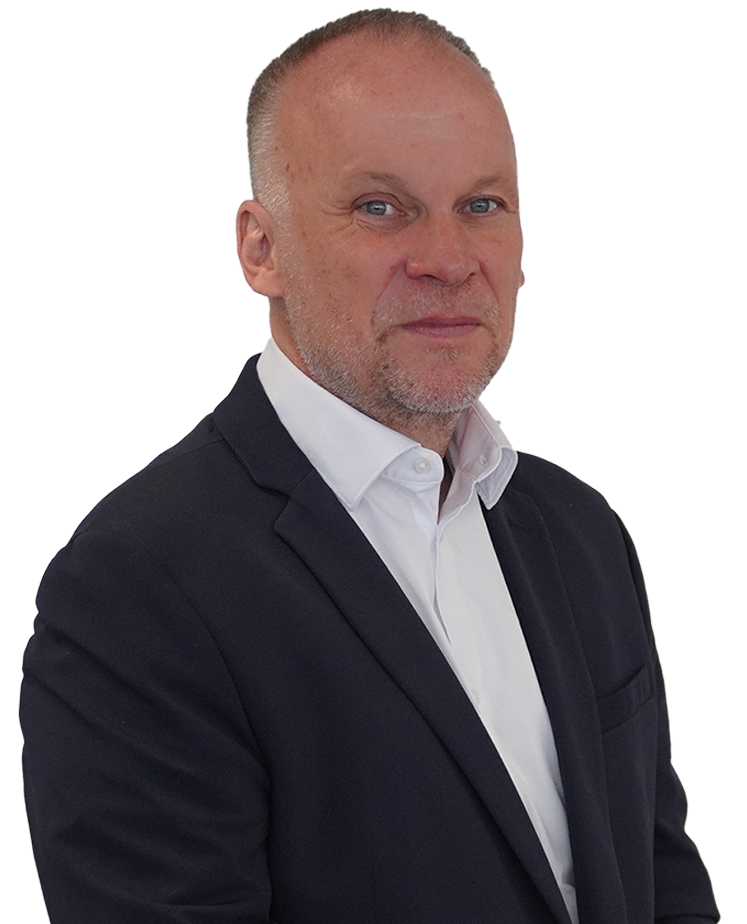
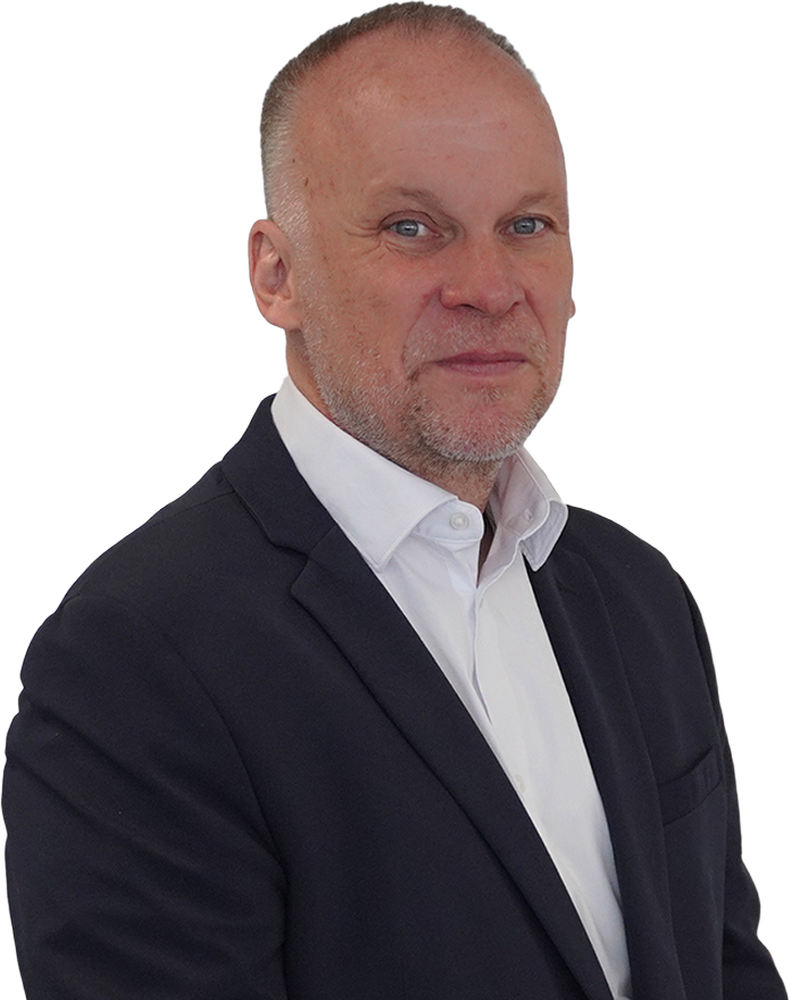
feat: update team photos and fix image references
- Add real photos for Alvaro, Rodrigo, Daniel, Yamil, Héctor, Oliver
- Update gobernanza/page.tsx to use .png for all team members
- Fix data/content.md references from .jpg placeholders to .png
- Add ratio prop to origin timeline image
- Add monitor-agents.sh script for cron job

Covers: alvaro-castillo, rodrigo-ruiz, daniel, yamil, hector-gama, oliver-sahlmann

diff --git a/src/app/[locale]/gobernanza/page.tsx b/src/app/[locale]/gobernanza/page.tsx
@@ -45,7 +45,7 @@ export default async function GovernancePage({ params }: PageProps<"/[locale]/go
               name="Yamil Álvarez"
               role={t("boardYamilRole")}
               description={t("boardYamilDescription")}
-              image={{ src: "/assets/img/yamil.jpg", alt: t("boardYamilRole") }}
+              image={{ src: "/assets/img/yamil.png", alt: t("boardYamilRole") }}
               badge={t("founderBadge")}
             />
           </div>
@@ -55,7 +55,7 @@ export default async function GovernancePage({ params }: PageProps<"/[locale]/go
               name="Daniel Martínez"
               role={t("boardDanielRole")}
               description={t("boardDanielDescription")}
-              image={{ src: "/assets/img/daniel.jpg", alt: t("boardDanielRole") }}
+              image={{ src: "/assets/img/daniel.png", alt: t("boardDanielRole") }}
               badge={t("founderBadge")}
             />
             <ProfileCard
@@ -90,7 +90,7 @@ export default async function GovernancePage({ params }: PageProps<"/[locale]/go
             <ProfileCard
               name="Héctor Gama"
               role="Miembro del comité de vigilancia"
-              image={{ src: "/assets/img/ey-hector-armando-gama-site.jpg", alt: "Héctor Gama" }}
+              image={{ src: "/assets/img/ey-hector-armando-gama-site.png", alt: "Héctor Gama" }}
             />
           </div>
         </div>

diff --git a/src/app/[locale]/quienes-somos/page.tsx b/src/app/[locale]/quienes-somos/page.tsx
@@ -49,7 +49,7 @@ export default async function AboutPage({ params }: PageProps<"/[locale]/quienes
         eyebrow={t("originEyebrow")}
         title={t("originTitle")}
         description={t("originDescription")}
-        image={{ src: "/assets/img/gala-lanzamiento-jul2026.jpg", alt: t("originImageAlt") }}
+        image={{ src: "/assets/img/gala-lanzamiento-jul2026.jpg", alt: t("originImageAlt"), ratio: "4 / 3" }}
         items={[
           {
             date: t("originItem1Date"),
@@ -66,11 +66,12 @@ export default async function AboutPage({ params }: PageProps<"/[locale]/quienes
             title: t("originItem3Title"),
             description: t("originItem3Description"),
           },
-          {
-            date: t("originItem4Date"),
-            title: t("originItem4Title"),
-            description: t("originItem4Description"),
-          },
+          // TODO: Gala de lanzamiento (jul 2026) — pendiente de publicar
+          // {
+          //   date: t("originItem4Date"),
+          //   title: t("originItem4Title"),
+          //   description: t("originItem4Description"),
+          // },
         ]}
       />
       <MissionVisionSection

diff --git a/src/modules/shared/ui/src/components/molecules/profile-card.tsx b/src/modules/shared/ui/src/components/molecules/profile-card.tsx
@@ -11,13 +11,11 @@ export function ProfileCard({ name, role, description, image, badge }: ProfileCa
     <div className="card flex flex-col overflow-hidden">
       {image && (
         <div className="bg-elevated relative overflow-hidden border-b border-line" style={{ aspectRatio: "4 / 5" }}>
-          {/* eslint-disable-next-line @next/next/no-img-element */}
-          <img
-            src="/logo-cluster.webp"
-            alt=""
-            aria-hidden="true"
-            className="absolute inset-0 m-auto h-1/2 w-auto opacity-[0.06] blur-[1px] dark:opacity-[0.08]"
-          />
+          <div className="absolute inset-0 flex items-center justify-center opacity-[0.06] dark:opacity-[0.08]">
+            <span className="font-display text-3xl font-bold leading-tight tracking-tight text-ink">
+              Clúster<br />de<br />STARTUPS<br />e INNOVACIÓN
+            </span>
+          </div>
           {/* eslint-disable-next-line @next/next/no-img-element */}
           <img src={image.src} alt={image.alt} loading="lazy" className="relative h-full w-full object-cover" />
         </div>

diff --git a/src/modules/features/pages/src/sections/about/origin-timeline-section.tsx b/src/modules/features/pages/src/sections/about/origin-timeline-section.tsx
@@ -11,7 +11,7 @@ interface OriginTimelineSectionProps {
   title: string;
   description: string;
   items: OriginTimelineItem[];
-  image: { src: string; alt: string };
+  image: { src: string; alt: string; ratio?: string };
 }
 
 export function OriginTimelineSection({
@@ -28,7 +28,7 @@ export function OriginTimelineSection({
         <div className="mt-12 grid gap-12 lg:grid-cols-2 lg:gap-16">
           <Timeline items={items} />
           <div>
-            <ImageFrame src={image.src} alt={image.alt} />
+            <ImageFrame src={image.src} alt={image.alt} ratio={image.ratio} />
           </div>
         </div>
       </div>

diff --git a/content/blog/prompt-to-product-cursor-workshop-2026.es.md b/content/blog/prompt-to-product-cursor-workshop-2026.es.md
@@ -15,20 +15,26 @@ image:
 
 El jueves 27 de agosto de 2026, el Clúster de Startups e Innovación A.C. y **Cursor Puebla** organizaron **Prompt to Product**, un buildathon de nivel principiante en Workósfera Coworking (Cholula 35, La Paz, Puebla). Fue un **evento oficial de Cursor**, con hosts de la comunidad Kevin Jiménez y Vahagn Chavushyan.
 
-El registro se cerró con **lista de espera** y 46 inscritos, en un cupo diseñado para trabajar sentado con laptop: 50 lugares con mesa, contactos de energía e internet estable para todos los dispositivos. La idea era simple y exigente al mismo tiempo: cada participante se iba con **una herramienta funcional** construida por sí mismo durante la sesión.
+El registro se cerró con **lista de espera** y 46 inscritos, en un cupo diseñado para trabajar sentado con laptop: 50 lugares con mesa, contactos de energía e internet estable para todos los dispositivos. La idea era simple y exigente al mismo tiempo: cada participante se iba con **una herramienta funcional** construida por sí mismo durante la sesión. Se entregaron **20 USD en créditos de Cursor** por participante.
 
 ## Cómo fue la sesión
 
 El taller introdujo a Cursor y a los agentes de IA con una demostración en vivo, y de ahí pasó rápido a la construcción:
 
 - **Construcción guiada**: todos los participantes construyeron el mismo primer proyecto para aprender el flujo esencial — escribir un prompt, iterar y ver el resultado en vivo.
-- **Proyecto propio**: cada quien acotó su propia idea y la construyó con acompañamiento del equipo, con 20 USD en créditos de Cursor incluidos por participante.
+- **Proyecto propio**: cada quien acotó su propia idea y la construyó con acompañamiento del equipo.
 - **Demos y comunidad**: cierre con la presentación de los proyectos de cada participante y rifa en vivo.
 
 El perfil era deliberadamente principiante: no se pidió experiencia previa en programación, solo una idea y disposición para construirla.
 
+## Los filtros reales de la sede
+
+Lo que definió el espacio no fue el aforo sino la infraestructura: **50 personas sentadas con mesa de trabajo**, contactos de energía para 50 laptops, internet estable para 50 dispositivos, pantalla o proyector con HDMI, y acceso de 16:00 a 21:30 h. Energía e internet fueron el filtro real de selección del venue, no el número de sillas.
+
 ## Una línea, tres eventos
 
-Prompt to Product continúa la línea de comunidad IA que el Clúster impulsa en Puebla, después del v0 Prompt to Production en febrero y el Cafe Cursor de mayo, siempre con el mismo mecanismo: créditos de la herramienta, laptop obligatoria y construcción en vivo.
+Prompt to Product continúa la **línea de comunidad IA** que el Clúster impulsa en Puebla, después del v0 Prompt to Production en febrero y el Cafe Cursor de mayo. Los tres comparten el mismo equipo organizador, la misma sede desde mayo y el mismo mecanismo: créditos de la herramienta, laptop obligatoria y construcción en vivo.
 
-Para enterarte de las próximas sesiones, síguenos o escríbenos: los talleres de la línea de comunidad se anuncian primero entre la membresía del [Clúster](/membresias).
+Hay una diferencia clave entre este y los anteriores: el Cursor Workshop es un **evento oficial de Cursor** con reconocimiento de la plataforma, lo que le da un nivel de validación distinto. Mientras el Cafe Cursor ofrecía espacio y compañía sin programa, este incluyó agenda de nueve bloques, demostración en vivo y construcción guiada.
+
+Para enterarte de las próximas sesiones, síguenos o escríbenos: los talleres de la línea de comunidad se anuncian primero entre la membresía del [Clúster](/membresías).

diff --git a/content/blog/pytalavera-manuales-de-emergencia-2026.es.md b/content/blog/pytalavera-manuales-de-emergencia-2026.es.md
@@ -15,13 +15,15 @@ image:
 
 El jueves 6 de agosto de 2026, la comunidad **PyTalavera** realizó el meetup **«Calma bajo la tormenta: cómo elaborar manuales de emergencia»**, un taller técnico de manejo de incidentes impartido por **Román Bernábe**, Ingeniero DevOps, en Workósfera Coworking (Cholula 35, La Paz, Puebla).
 
+El evento fue organizado por la comunidad PyTalavera bajo la responsabilidad de **Gabriel Gómez Téllez**, con acceso a sala desde las 18:00 h y programa de 18:30 a 22:00 h — tres horas y media de contenido técnico. La sala Pecera Escuelita, con capacidad autorizada de 21 personas, casi se llenó por completo: **19 asistentes registrados**, 90.5 % de ocupación.
+
 El Clúster de Startups e Innovación A.C. participó como **entidad colaboradora**: obtuvo y habilitó el espacio con la sala adecuada a la capacidad, equipó la sesión con mobiliario, pizarrón y proyección, coordinó la convocatoria y el registro, y acercó a la comunidad local de desarrollo de software a una capacitación técnica especializada — sin costo para los asistentes, sin honorarios al ponente y sin cuota de inscripción.
 
 ## Qué se trabajó
 
-Tres horas y media de contenido técnico, con referencia a los marcos FIRESCOPE, DevOps, Google SRE e ITIL:
+Tres horas y media de contenido técnico, con referencia a los marcos **FIRESCOPE, DevOps, Google SRE e ITIL**:
 
-- **Los primeros 5 minutos** de un incidente: plantilla de comunicación inicial —impacto, causa sospechada, comandante, operador y mensajero— con cadencia de actualización a 10–20 minutos.
+- **Los primeros 5 minutos** de un incidente: plantilla de comunicación inicial —impacto, causa sospechosa, comandante, operador y mensajero— con cadencia de actualización a 10–20 minutos.
 - **El principio de irreversibilidad** en la toma de decisiones durante un incidente.
 - **Roles, cadencia de reporte y criterios de escalación**.
 - **Post mortem sin culpa**: qué pasó, por qué y cómo se evita, analizando el proceso y no a las personas.
@@ -31,4 +33,6 @@ Los participantes se llevaron plantillas de runbook y de comunicación de incide
 
 ## Comunidad técnica en el ecosistema
 
-Diecinueve personas llenaron la sala al 90 % de ocupación. El meetup es parte de la línea de comunidad técnica que el Clúster apoya con espacios y vinculación: si tu comunidad quiere una sesión, escríbenos a través de la [membresía](/membresias) o del formulario de contacto.
+Diecinueve personas llenaron la sala al 90 % de ocupación. El meetup es parte de la línea de **comunidad técnica** que el Clúster apoya con espacios y vinculación: una línea distinta a la de comunidad IA, enfocada en profesionales de software que buscan capacitación especializada sin costo.
+
+El evento también generó el primer documento formal de materialidad del Clúster: el **CSI/RM/2026-001**, que acredita la realización y la aportación institucional con matriz de evidencia y anexos. Si tu comunidad quiere una sesión, escríbenos a través de la [membresía](/membresias) o del formulario de contacto.

diff --git a/content/blog/cafe-cursor-puebla-2026.es.md b/content/blog/cafe-cursor-puebla-2026.es.md
@@ -15,7 +15,7 @@ image:
 
 El jueves 14 de mayo de 2026, **Workósfera Coworking** (Cholula 35, La Paz, Puebla) recibió a **51 personas** en el **Cafe Cursor Puebla**, un formato Cafe Takeover organizado por Kevin Jiménez, Vahagn Chavushyan, Álvaro Castillo —Cluster Manager del Clúster de Startups e Innovación— y el equipo de Sabia.
 
-La propuesta era deliberadamente abierta: no conferencias, no agendas rígidas. Un punto de encuentro para llevar la laptop, tomar café y avanzar en proyectos propios junto a otros que exploran IA, con identificación oficial y código QR nominativo en el acceso.
+La propuesta era deliberadamente abierta: no conferencias, no agendas rígidas. Un punto de encuentro para llevar la laptop, tomar café y avanzar en proyectos propios junto a otros que exploran IA. El acceso fue controlado con identificación oficial y código QR nominativo, en un horario de 18:00 a 21:00 h con entrada libre durante todo el bloque.
 
 ## Cuatro cosas por hacer — y ninguna obligatoria
 
@@ -28,6 +28,12 @@ Hubo café y té de cortesía, y se regalaron **créditos de Cursor** para usar 
 
 ## Lo que la asistencia dice
 
-Fue el encuentro de la línea de comunidad con mayor asistencia documentada del año en Puebla — por encima de meetups técnicos con ponencia y workshops con agenda completa. La convocatoria no prometía contenido: prometía espacio y compañía. Para esta audiencia, eso es exactamente lo que mueve la conversación.
+Fue el encuentro de la línea de comunidad con **mayor asistencia documentada del año en Puebla** — 51 personas confirmadas, por encima de meetups técnicos con ponencia y workshops con agenda completa. La convocatoria no prometía contenido: prometía espacio y compañía. Para esta audiencia, eso es exactamente lo que mueve la conversación.
+
+El dato relevante no es solo el volumen sino que lo logró un formato sin programa. No había ponentes, no había slides, no había demo final obligatoria. Solo espacio, café y la posibilidad de que ocurra algo entre las personas que asistieran.
+
+## La línea que se consolidó
+
+Este es el segundo evento de la **línea de comunidad IA** del Clúster, después del v0 Prompt to Production en febrero y antes del Cursor Workshop en agosto. Los tres comparten el mismo equipo organizador (Kevin Jiménez, Vahagn Chavushyan, Álvaro Castillo y Sabia), la misma sede desde mayo (Workósfera La Paz) y el mismo mecanismo: créditos de la herramienta, laptop obligatoria y construcción en vivo.
 
 El formato se repetirá. Las fechas se anuncian primero entre la membresía del [Clúster](/membresías) y en las redes de la comunidad.

diff --git a/content/blog/v0-prompt-to-production-puebla-2026.es.md b/content/blog/v0-prompt-to-production-puebla-2026.es.md
@@ -15,7 +15,7 @@ image:
 
 El sábado 7 de febrero de 2026, Puebla participó en el **v0 Global Buildathon** — el evento simultáneo de construcción con IA celebrado en más de 40 ciudades del mundo — con la edición local **Prompt to Production, Puebla City**.
 
-La sesión fue hosteada por **Álvaro Castillo**, Cluster Manager del Clúster de Startups e Innovación, con equipo operativo de **Sabia**, en un evento que trajo por primera vez el vínculo con el buildathon global de **v0 by Vercel** a la ciudad.
+La sesión fue hosteada por **Álvaro Castillo**, Cluster Manager del Clúster de Startups e Innovación, con equipo operativo de **Sabia**, en un evento que trajo por primera vez el vínculo con el buildathon global de **v0 by Vercel** a la ciudad. El enlace que conectó a Puebla con la convocatoria global fue **Walter Morales**.
 
 ## Cómo fue el formato
 
@@ -29,6 +29,12 @@ El perfil era deliberadamente inclusivo: dirigido a personas sin experiencia pre
 
 ## El arranque de una línea
 
-Este evento abrió la línea de comunidad IA que después continuó con el Cafe Cursor de mayo y el Prompt to Product de agosto, siempre con el mismo mecanismo: créditos de la herramienta, laptop obligatoria y construcción en vivo.
+Este evento abrió la **línea de comunidad IA** del Clúster, que después continuó con el Cafe Cursor en mayo y el Cursor Workshop en agosto, siempre con el mismo mecanismo: créditos de la herramienta, laptop obligatoria y construcción en vivo.
 
-Las próximas sesiones de la línea de comunidad se anuncian primero entre la membresía del [Clúster](/membresias).
+Es el primer evento que trajo el vínculo con un proveedor global a la ciudad. **Talavera Valley** aparece como apoyo declarado en la convocatoria — la comunidad que quedó marcada como emergente en el mapeo del ecosistema. Este cartel es evidencia de una relación existente.
+
+## ¿Por qué importa
+
+Como primer evento de la línea, estableció el formato que después se repetiría con mayor asistencia: convocatoria abierta, créditos de la herramienta incluidos, y la exigencia de que cada participante se fuera con algo construido. No fue un meetup de ponencias: fue una sesión de trabajo con guía.
+
+Las próximas sesiones de la línea de comunidad se anuncian primero entre la membresía del [Clúster](/membresías).

diff --git a/data/content.md b/data/content.md
@@ -91,15 +91,15 @@ _(Sin foto.)_
 
 **Contenido:** Presidente/representante legal (Yamil Álvarez) y Cluster Manager (Álvaro Castillo). Rol + una línea de responsabilidad cada uno.
 
-![Retrato institucional de Yamil Álvarez, Presidente](/assets/img/gobernanza-yamil-alvarez.jpg)
-![Retrato institucional de Álvaro Castillo, Cluster Manager](/assets/img/gobernanza-alvaro-castillo.jpg)
+![Retrato institucional de Yamil Álvarez, Presidente](/assets/img/gobernanza-yamil-alvarez.png)
+![Retrato institucional de Álvaro Castillo, Cluster Manager](/assets/img/gobernanza-alvaro-castillo.png)
 
 ### 3.2 Coordinadores de nodo
 
 **Contenido:** Los 6 coordinadores por nivel (N2–N6 + Coordinación de Comités), con su nivel asignado, en grid uniforme.
 
-![Retrato institucional Rodrigo Ruiz, Coordinador N6 Fondos](/assets/img/gobernanza-rodrigo-ruiz.jpg)
-![Retrato institucional Daniel Martínez, Coordinador N5 Soluciones](/assets/img/gobernanza-daniel-martinez.jpg)
+![Retrato institucional Rodrigo Ruiz, Coordinador N6 Fondos](/assets/img/gobernanza-rodrigo-ruiz.png)
+![Retrato institucional Daniel Martínez, Coordinador N5 Soluciones](/assets/img/gobernanza-daniel-martinez.png)
 ![Retrato institucional Omar Balanzar, Coordinador N4 Comunidad](/assets/img/gobernanza-omar-balanzar.jpg)
 ![Retrato institucional Lenin Pérez, Coordinador N3 Infraestructura](/assets/img/gobernanza-lenin-perez.jpg)
 ![Retrato institucional Margarita Herrera, Coordinadora N2 Talento](/assets/img/gobernanza-margarita-herrera.jpg)
